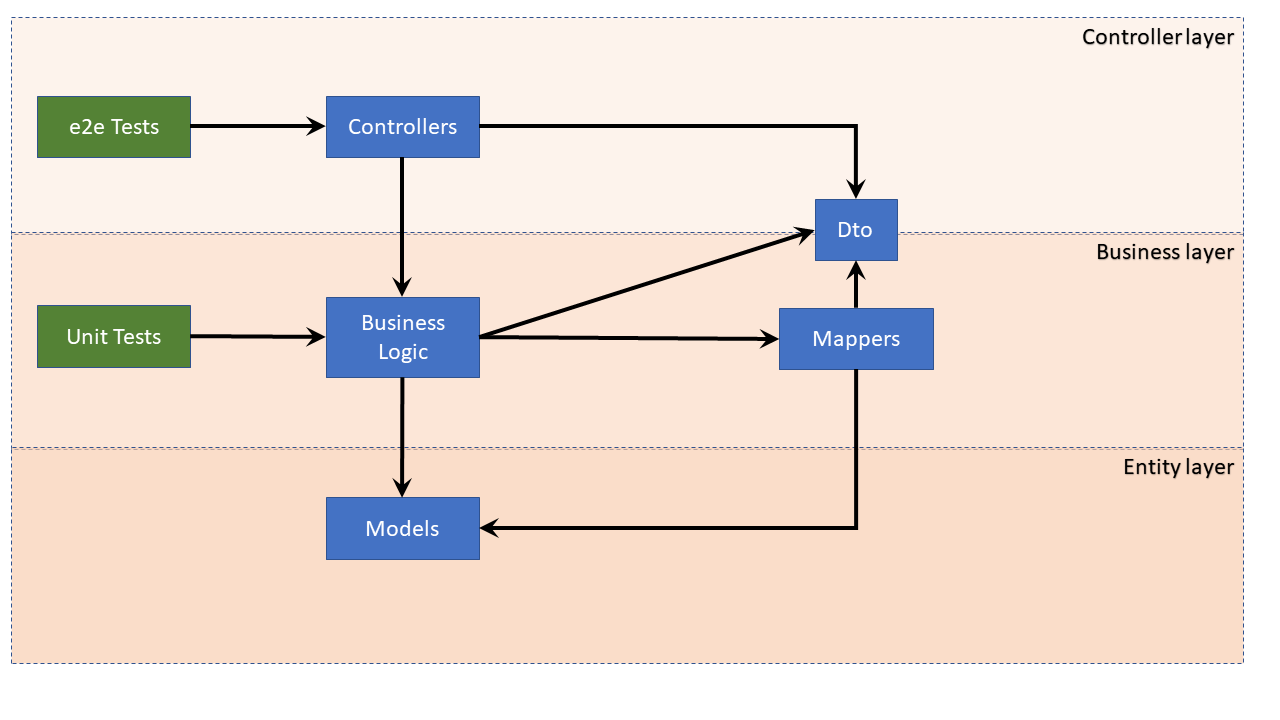
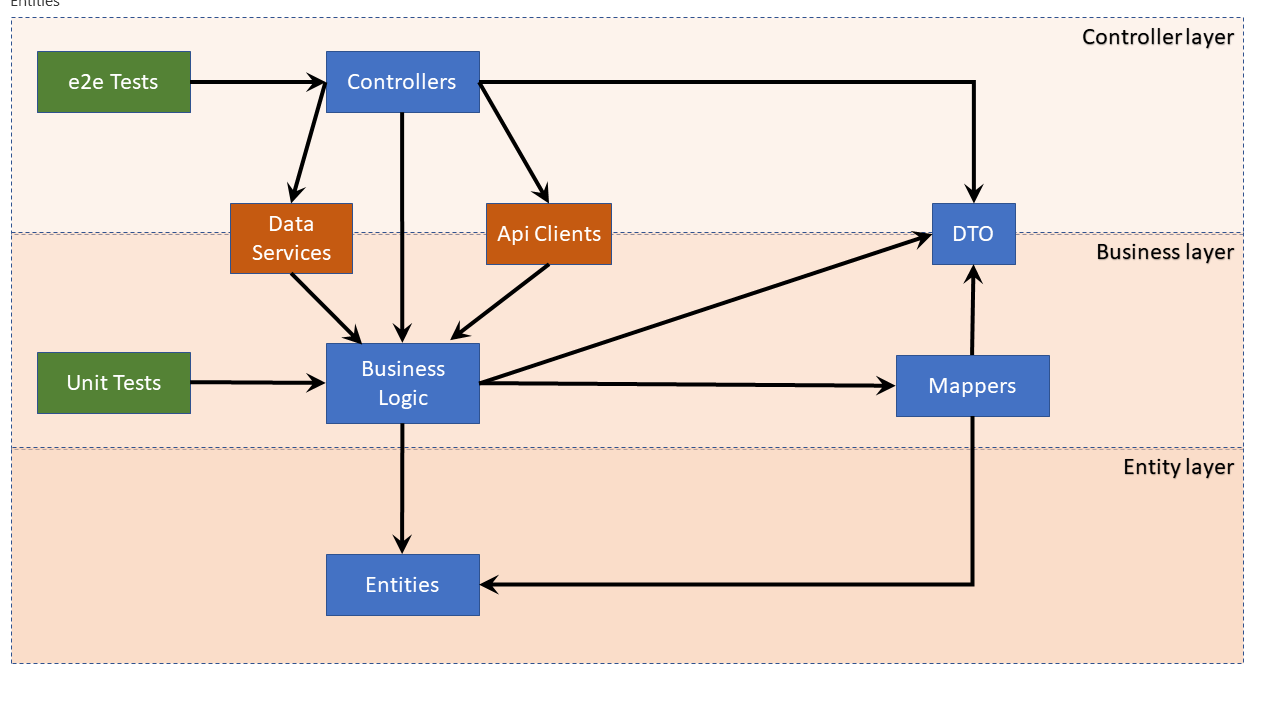
docs

diff --git a/README.md b/README.md
@@ -6,8 +6,17 @@ The aim of this project is compile a list of Node best practices, and implement 
 
 ## Architecture
 
-- Adopt a 'clean' architecture !['](https://github.com/ireoostacchini/demo20.api.node/blob/master/docs/demo20.node.api.png)
-
+- Adopt a ['clean' architecture](https://www.freecodecamp.org/news/a-quick-introduction-to-clean-architecture-990c014448d2/):
+  - Controllers 
+    - receive DTOs from requests; they perform initial validation and pass the DTOs down to the Business Logic layer
+    - inject concrete implementations (e.g. Data Services, API Clients) into the Business Logic layer
+  - The Business Logic layer 
+    - maps DTOs to / from Entities, and uses them with the injected data / API services
+    - has no knowledge of concrete implementation (data, external APIs, file system)
+  - The Entities layer
+    - contains classes representing domain objects
+    - has no dependencies and no knowledge of concrete implementation or business logic
+- !['](https://github.com/ireoostacchini/demo20.api.node/blob/master/docs/demo20.node.api.png)
 - Delegate anything possible (e.g. gzip, SSL) to a reverse proxy)
 - Measure and guard memory usage
 
@@ -127,6 +136,12 @@ The aim of this project is compile a list of Node best practices, and implement 
 - *Collect unit test coverage measurements
 - Add data per-test (e.g. use a separate API to load data into a database, and call it before each test)
 - Use a production-like environment for e2e testing
+
+
+
+## Documentation
+
+- Document API errors using Swagger or GraphQL
 
 
 
